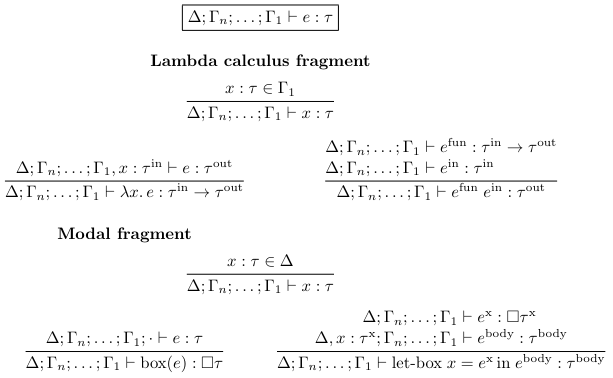
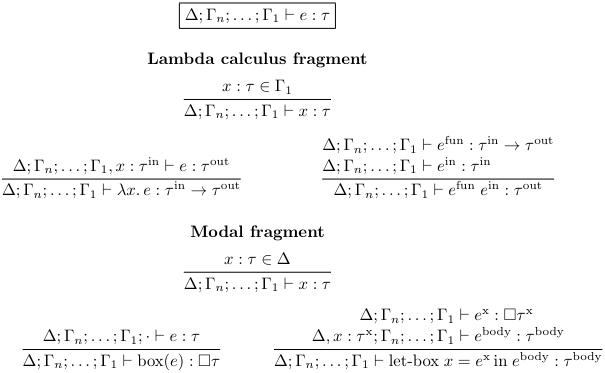
alignment

diff --git a/latex/staged-diamond-calculus.tex b/latex/staged-diamond-calculus.tex
@@ -494,7 +494,9 @@
   {\Delta; \Gamma_n; \ldots; \Gamma_1 \vdash e^{\text{fun}}\;e^{\text{in}} : \tau^{\text{out}}}
 \vspace{3ex}
 \\
+  &
   \makebox[0em]{\centering \textbf{Modal fragment}}
+  &
 \vspace{1ex}
 \\
   &
